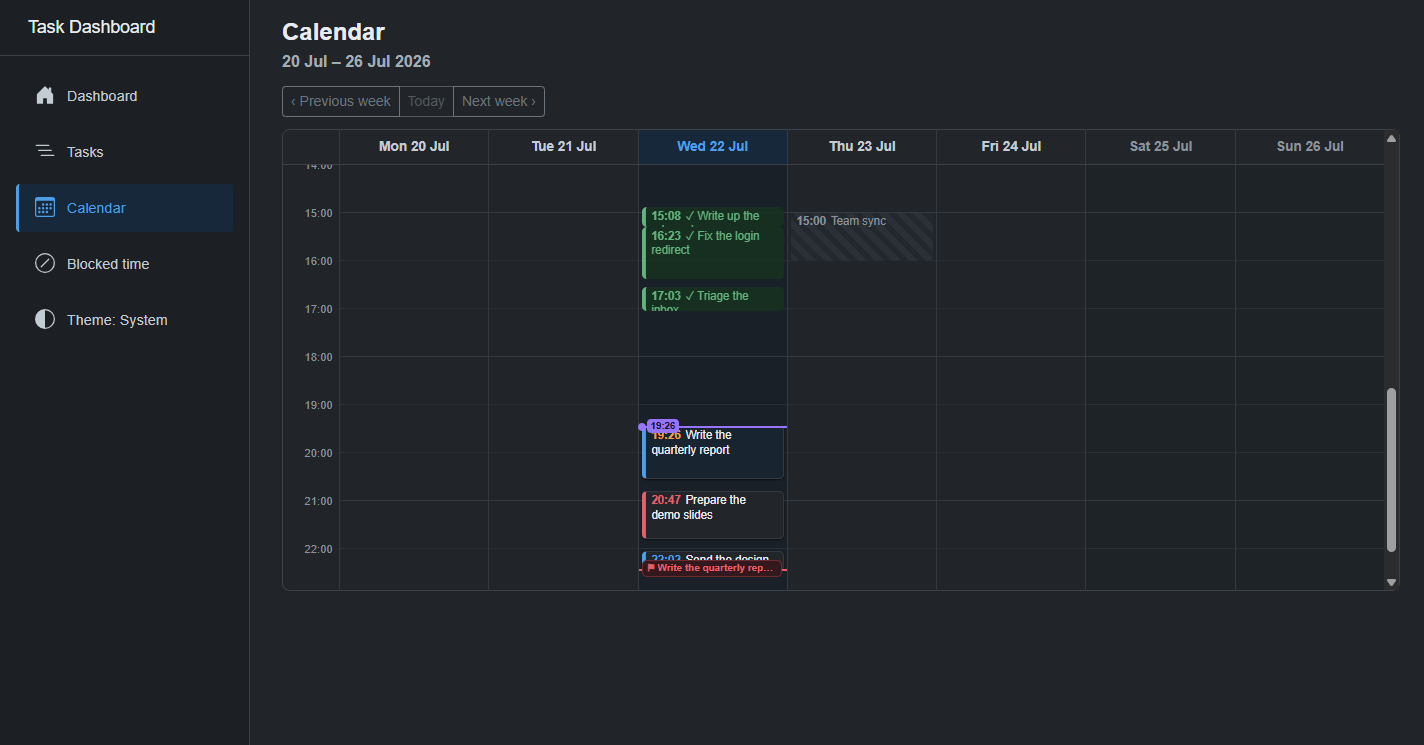
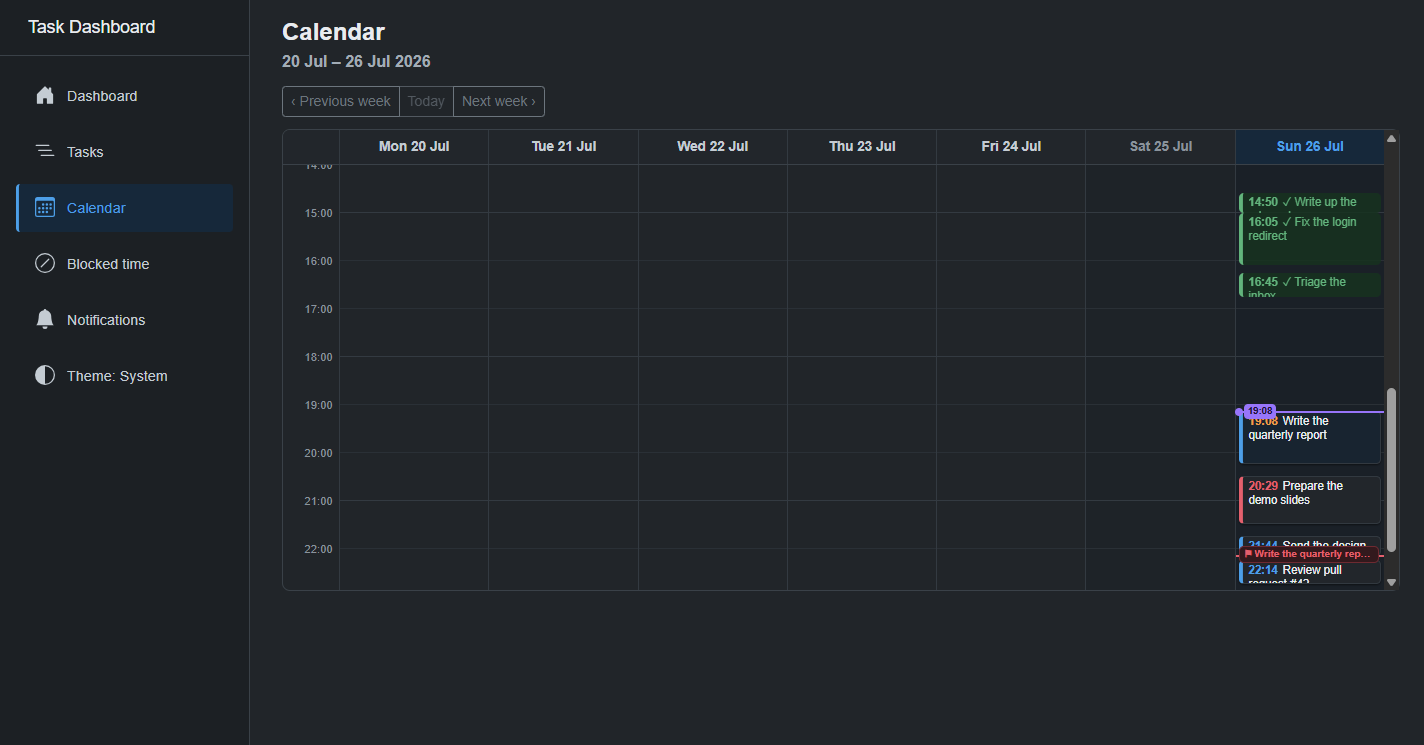
Add the Notifications page to the demo capture
The tour showed five screens and stopped at Blocked time, so the feature
the app exists for was missing from the one artifact meant to demonstrate
the app without running it. Worse, every screenshot in the set predated the
notifications work, so all ten showed a sidebar with no Notifications entry
-- the tour was quietly misrepresenting the navigation as well as omitting
a page.

Capture mode gains a sixth screen and build-tour.py the matching talking
points, which state the platform split rather than glossing it: Android
alarms fire with the app closed and carry the always-on current-task
notification, Windows raises toasts only while running. Someone reading the
tour to decide whether the app suits them needs that before installing.

The seed now states the three notification settings explicitly instead of
letting them fall back to the model's property initialisers. They agree
with those defaults today, so the screenshot is unchanged either way, but a
retuned default would otherwise silently rewrite a demo screenshot.

All twelve screenshots are regenerated, so the refreshed set also picks up
the tokenised sidebar and the new nav entry throughout. Captured locally
per docs/README.md; no app code changed, so no suite run.

Written with the assistance of Claude Code (Anthropic), an AI coding tool.
The code was reviewed and is authored by Adilet Eshimkanov, who remains
responsible for its contents.

Assisted-by: Claude Code (Anthropic) <https://claude.com/claude-code>

diff --git a/docs/tour.html b/docs/tour.html
@@ -337,6 +337,22 @@
           <img class="shot-dark" src="screenshots/5-blocked-time-dark.png" alt="Blocked time screen, dark theme">
         </figure>
       </section>
+      <section class="screen" id="screen-6">
+        <div class="screen-copy">
+          <p class="eyebrow">Notifications</p>
+          <h2>The reason this is a native app rather than a web page</h2>
+          <p class="lede">Each deadline earns a heads-up ahead of time and a second reminder when it falls due. A separate always-on notification can stay pinned with whatever the plan says you should be doing now.</p>
+          <ul class="points">
+          <li>Android reminders fire through AlarmManager with the app closed</li>
+          <li>Windows raises toasts while the app runs - unpackaged apps cannot schedule one for a closed app</li>
+          <li>The always-on current task notification is Android only</li>
+          </ul>
+        </div>
+        <figure class="shot">
+          <img class="shot-light" src="screenshots/6-notifications-light.png" alt="Notifications screen, light theme">
+          <img class="shot-dark" src="screenshots/6-notifications-dark.png" alt="Notifications screen, dark theme">
+        </figure>
+      </section>
   </main>
 
   <section class="specs">

diff --git a/docs/build-tour.py b/docs/build-tour.py
@@ -54,6 +54,15 @@ SCREENS = [
      ["The break between tasks is a planner setting, not a per-task field",
       "Blocked periods draw straight onto the calendar as shading",
       "The planner routes around them rather than scheduling over them"]),
+    ("Notifications", "6-notifications",
+     "The reason this is a native app rather than a web page",
+     "Each deadline earns a heads-up ahead of time and a second reminder when "
+     "it falls due. A separate always-on notification can stay pinned with "
+     "whatever the plan says you should be doing now.",
+     ["Android reminders fire through AlarmManager with the app closed",
+      "Windows raises toasts while the app runs - unpackaged apps cannot "
+      "schedule one for a closed app",
+      "The always-on current task notification is Android only"]),
 ]
 
 SPECS = [

diff --git a/tools/UiTest/Program.cs b/tools/UiTest/Program.cs
@@ -344,12 +344,16 @@ if (mode == "capture")
         await NavTo("Blocked time", "Blocked time");
         await page.WaitForTimeoutAsync(400);
         await Shot($"5-blocked-time-{theme}.png");
+
+        await NavTo("Notifications", "Notifications");
+        await page.WaitForTimeoutAsync(400);
+        await Shot($"6-notifications-{theme}.png");
     }
 
     await Capture("light");
     await Capture("dark");
     await page.EvaluateAsync("taskDashboard.applyTheme('system')");
-    Console.WriteLine($"CAPTURED 10 screenshots to {shotDir}");
+    Console.WriteLine($"CAPTURED 12 screenshots to {shotDir}");
     return 0;
 }
 

diff --git a/docs/README.md b/docs/README.md
@@ -5,7 +5,7 @@ Demo assets for showing the app without running it.
 - **`tour.html`** — a screen-by-screen product tour with a Light/Dark toggle
   that swaps every screenshot at once. Open it straight from disk; it
   references `screenshots/` by relative path.
-- **`screenshots/`** — the ten captures the tour uses: five screens × both
+- **`screenshots/`** — the twelve captures the tour uses: six screens × both
   themes, 1424×745, taken from the real Windows app.
 - **`build-tour.py`** — regenerates `tour.html` from the screenshots. Pass
   `--embed` to produce `tour.embed.html`, a single self-contained file
